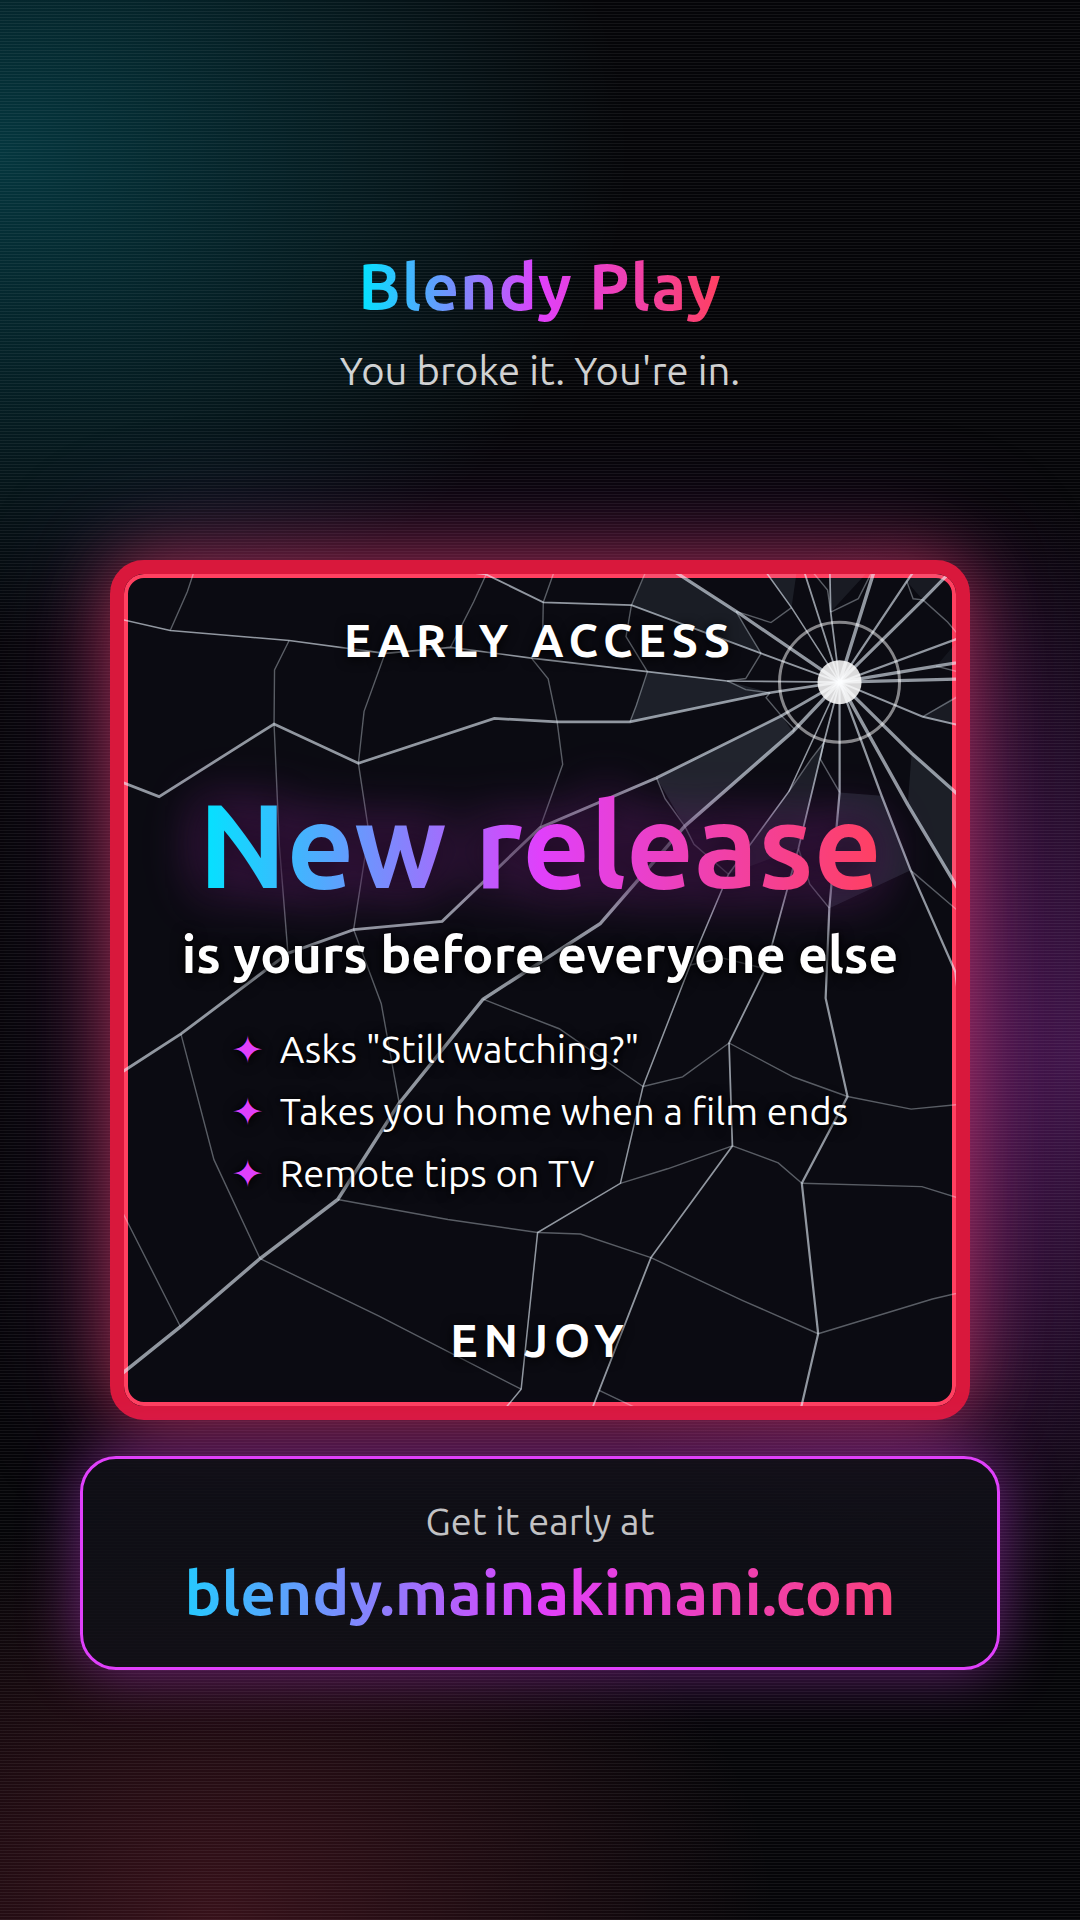
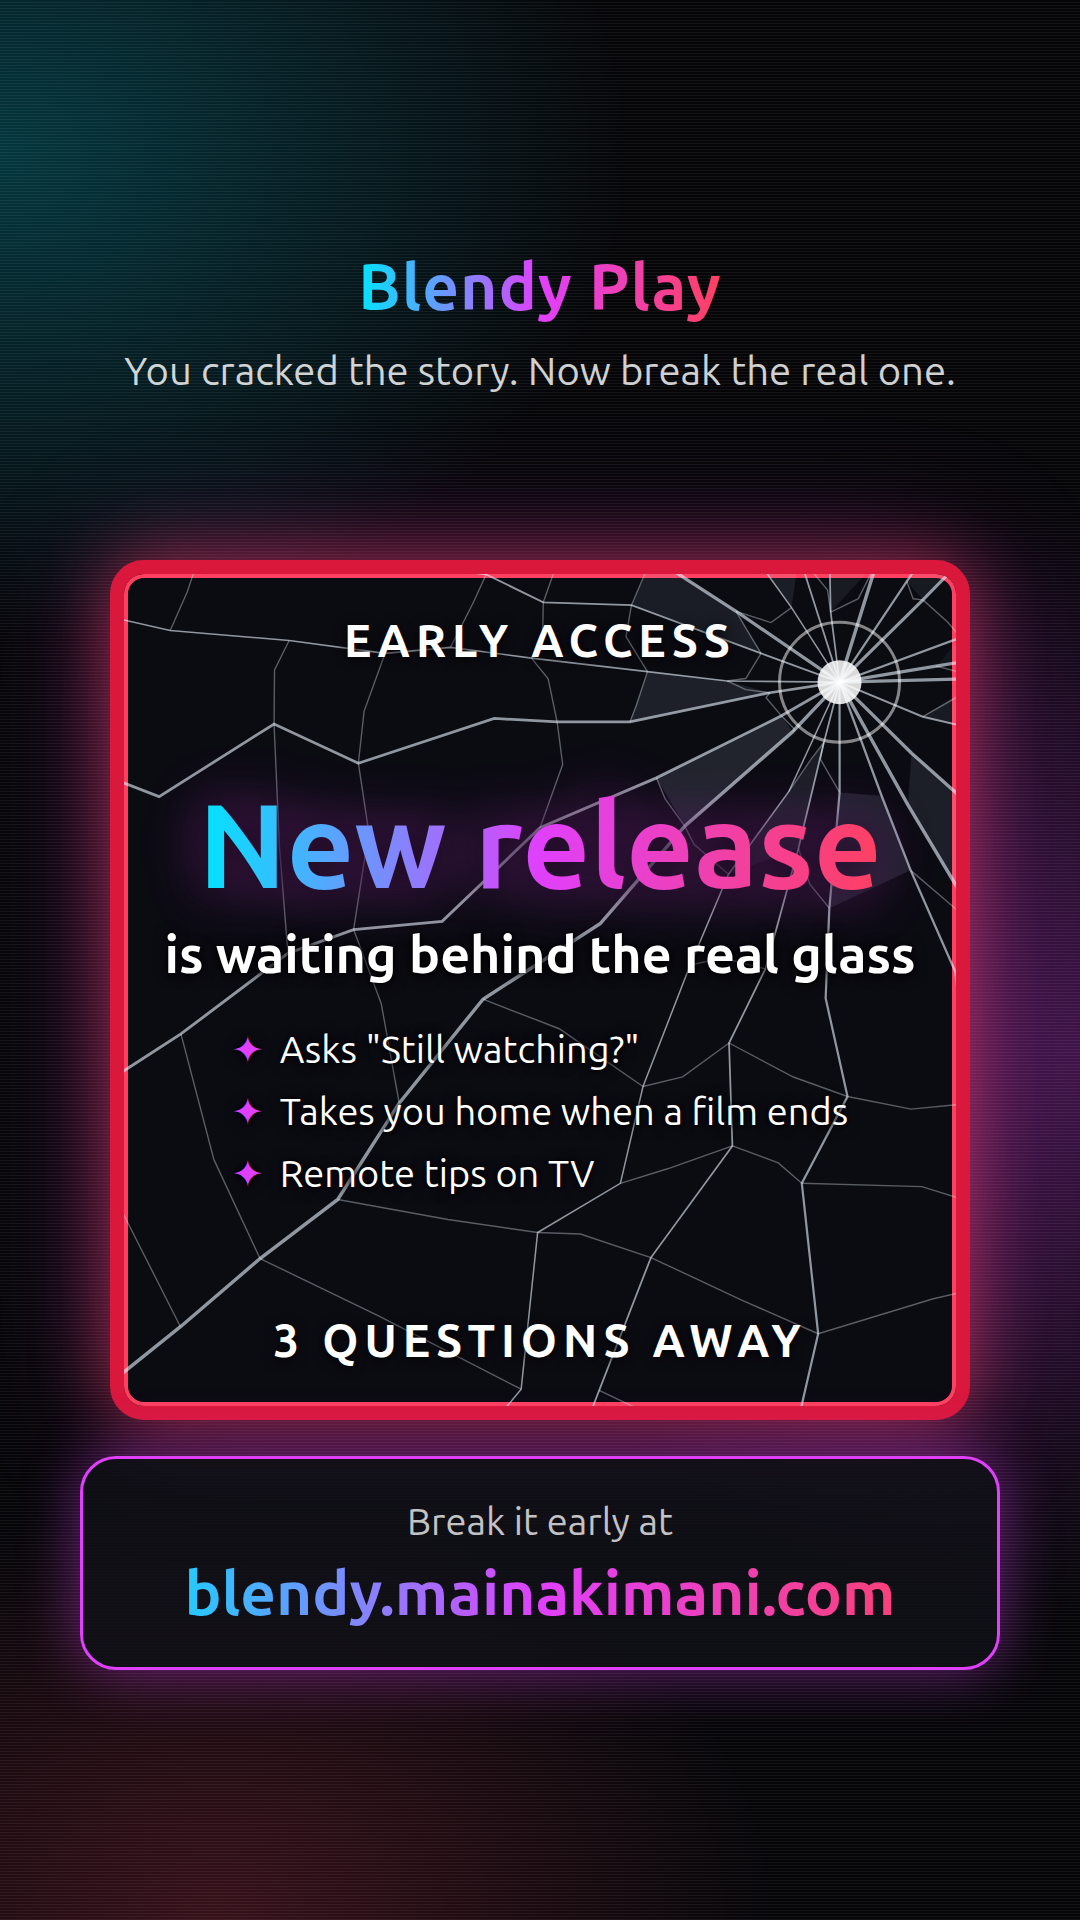
docs(branding): send the broken-glass story to the real quiz
Story 2b said "You broke it. You're in" and "Get it early", but
tapping through a story unlocks nothing: people landed on the site's
sealed glass and quiz and found the promise broken.

2b now says "You cracked the story. Now break the real one", the case
reads "New release is waiting behind the real glass" and "3 questions
away", and the link box says "Break it early". The README links 2b to
/#download, which opens the page at the glass, and says to post the
glass stories before it breaks for everyone and the launch story
after.

diff --git a/branding/social/stories.html b/branding/social/stories.html
@@ -105,13 +105,13 @@ if (v === "launch") {
   const broken = v === "broken";
   root.innerHTML = `
     <div class="brand" style="top:250px"><div class="name bold neon-text" style="font-size:64px">Blendy Play</div>
-      <div class="sub" style="font-size:40px">${broken ? "You broke it. You're in." : "Something new is locked in here..."}</div></div>
+      <div class="sub" style="font-size:40px">${broken ? "You cracked the story. Now break the real one." : "Something new is locked in here..."}</div></div>
     <div class="case${broken ? " broken" : ""}">
       <div class="sign top bold">${broken ? "EARLY ACCESS" : "IN CASE OF BOREDOM"}</div>
       <div class="prize">
         ${broken ? `
           <div class="v bold neon-text" style="font-size:118px;line-height:1.05">New release</div>
-          <div class="t bold" style="font-size:52px;color:#fff">is yours before everyone else</div>
+          <div class="t bold" style="font-size:52px;color:#fff">is waiting behind the real glass</div>
           <ul class="new" style="margin-top:26px">
             <li>Asks "Still watching?"</li>
             <li>Takes you home when a film ends</li>
@@ -122,10 +122,10 @@ if (v === "launch") {
           <div class="t">The new Blendy Play</div>`}
       </div>
       ${broken ? '<svg class="cracks" id="cracks"></svg>' : '<div class="glass"></div>'}
-      <div class="sign bottom bold">${broken ? "ENJOY" : "BREAK GLASS"}</div>
+      <div class="sign bottom bold">${broken ? "3 QUESTIONS AWAY" : "BREAK GLASS"}</div>
     </div>
     ${broken ? `
-      <div class="cta" style="bottom:250px"><div class="label">Get it early at</div><div class="url bold neon-text">blendy.mainakimani.com</div></div>` : `
+      <div class="cta" style="bottom:250px"><div class="label">Break it early at</div><div class="url bold neon-text">blendy.mainakimani.com</div></div>` : `
       <div class="tap"><div class="big bold"><span class="finger"></span>Tap to break the glass</div>
         <div class="small">and get the next release early</div></div>`}`;
 

diff --git a/branding/social/README.md b/branding/social/README.md
@@ -9,9 +9,13 @@ Instagram and WhatsApp stories, 1080 × 1920 PNG.
 | `2b-glass-broken.png` | "Break the glass", frame 2: the glass broken, early access to the new release |
 
 Post 2a and 2b back to back: tapping a story moves to the next one, so the
-viewer's tap on 2a is what breaks the glass in 2b. On Instagram, put a Link
-sticker to `https://blendy.mainakimani.com` over the purple box (on 2b only
-for the second story).
+viewer's tap on 2a is what cracks the glass in 2b. 2b then sends people to the
+real glass on the site, where three film questions break it early. Post them
+before the glass on the downloads breaks for everyone; after that, post 1.
+
+On Instagram, put a Link sticker over the purple box:
+`https://blendy.mainakimani.com/#download` on 2b (it opens the page at the
+glass), and `https://blendy.mainakimani.com` on 1.
 
 The images are drawn by `stories.html`. To change the wording or prices,
 edit it and render each frame with headless Chrome, for example:
